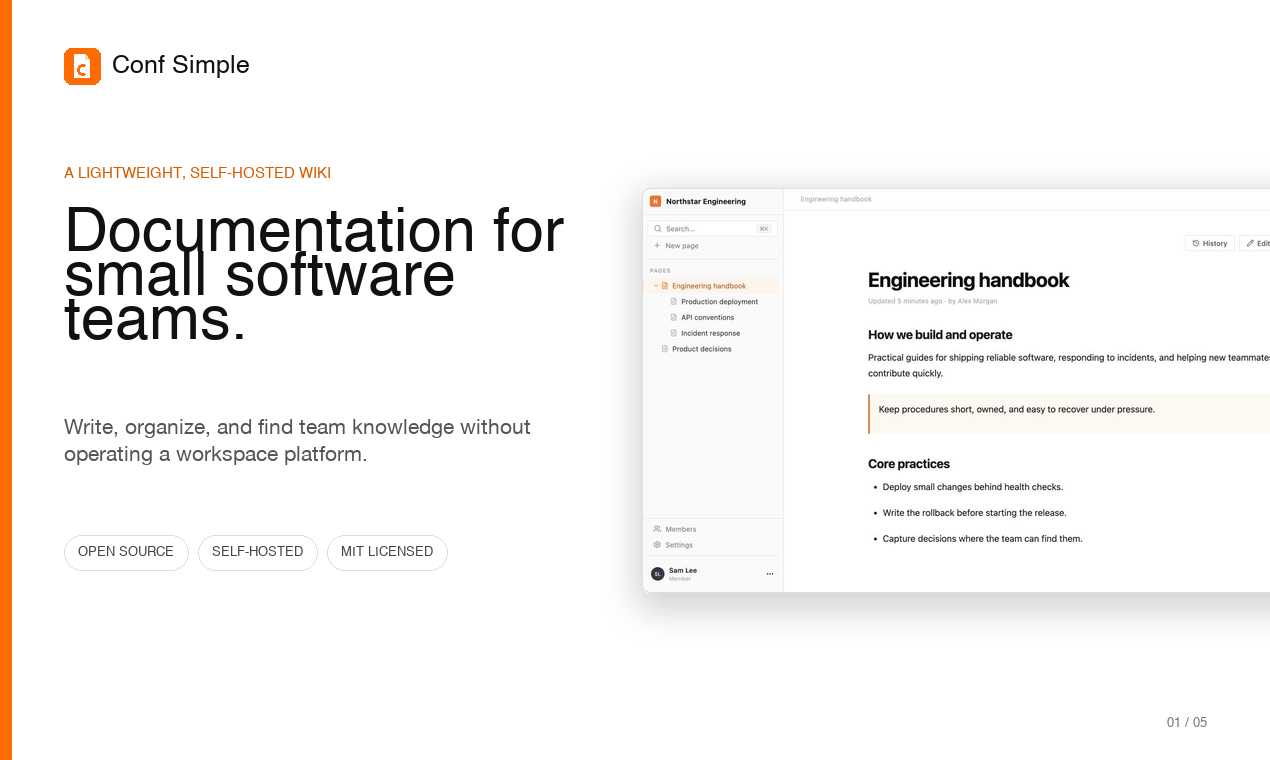
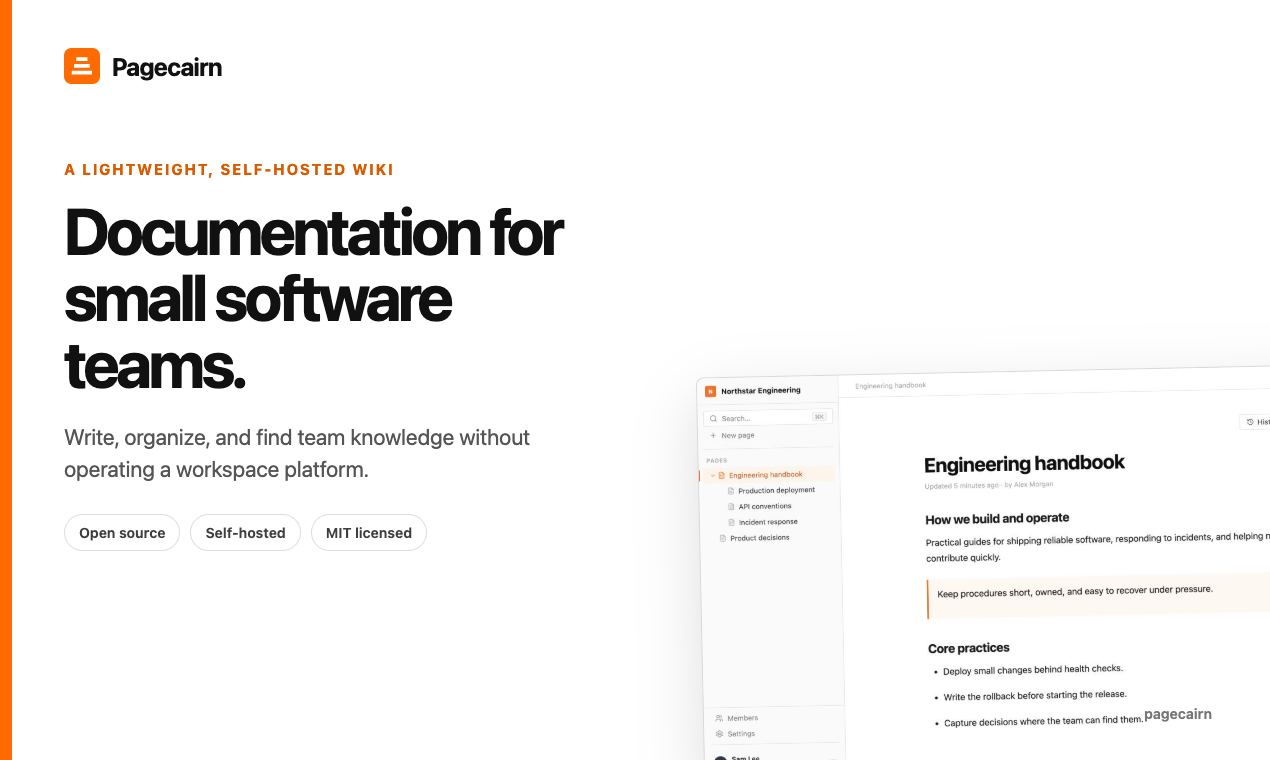
Rename product to Pagecairn

diff --git a/docs/index.html b/docs/index.html
@@ -4,17 +4,17 @@
     <meta charset="utf-8">
     <meta name="viewport" content="width=device-width, initial-scale=1">
     <meta name="theme-color" content="#ff6b00">
-    <meta name="description" content="Conf Simple is a lightweight, self-hosted wiki for small software teams to write, organize, and find documentation.">
-    <meta property="og:title" content="Conf Simple — a lightweight, self-hosted wiki">
+    <meta name="description" content="Pagecairn is a lightweight, self-hosted wiki for small software teams to write, organize, and find documentation.">
+    <meta property="og:title" content="Pagecairn — a lightweight, self-hosted wiki">
     <meta property="og:description" content="Write, organize, and find your team's documentation while keeping the whole installation on your own server.">
     <meta property="og:type" content="website">
     <meta property="og:url" content="https://bybogdan.github.io/conf-simple/">
     <meta property="og:image" content="https://bybogdan.github.io/conf-simple/assets/launch/social-preview.png">
     <meta name="twitter:card" content="summary_large_image">
-    <meta name="twitter:title" content="Conf Simple — a lightweight, self-hosted wiki">
+    <meta name="twitter:title" content="Pagecairn — a lightweight, self-hosted wiki">
     <meta name="twitter:description" content="Write, organize, and find your team's documentation while keeping the whole installation on your own server.">
     <meta name="twitter:image" content="https://bybogdan.github.io/conf-simple/assets/launch/social-preview.png">
-    <title>Conf Simple — A lightweight, self-hosted wiki</title>
+    <title>Pagecairn — A lightweight, self-hosted wiki</title>
     <link rel="canonical" href="https://bybogdan.github.io/conf-simple/">
     <link rel="icon" href="assets/landing/favicon.svg" type="image/svg+xml">
     <link rel="stylesheet" href="assets/landing/site.css">
@@ -24,14 +24,9 @@
 
     <header class="site-header">
       <div class="container header-inner">
-        <a class="brand" href="#top" aria-label="Conf Simple home">
-          <svg class="brand-mark" viewBox="0 0 24 24" role="img" aria-label="Conf Simple logo">
-            <rect width="24" height="24" rx="5" fill="#ff6b00"/>
-            <path d="M6.75 4.5h7.4l3.1 3.1v11.9H6.75z" fill="#fff"/>
-            <path d="M14.15 4.5v3.1h3.1" fill="#ffd2b3"/>
-            <path d="M14.7 11.05a4.05 4.05 0 1 0 0 5.9" fill="none" stroke="#ff6b00" stroke-width="1.75" stroke-linecap="round"/>
-          </svg>
-          <span>Conf Simple</span>
+        <a class="brand" href="#top" aria-label="Pagecairn home">
+          <img class="brand-mark" src="assets/landing/favicon.svg" alt="">
+          <span>Pagecairn</span>
         </a>
         <nav aria-label="Primary navigation">
           <a class="nav-link" href="https://github.com/bybogdan/conf-simple">View on GitHub</a>
@@ -53,7 +48,7 @@
         </div>
         <div class="container">
           <figure class="hero-product">
-            <img src="assets/screenshots/hero-workspace.jpg" width="1280" height="720" alt="Conf Simple showing a production deployment runbook inside a nested engineering handbook" fetchpriority="high">
+            <img src="assets/screenshots/hero-workspace.jpg" width="1280" height="720" alt="Pagecairn showing a production deployment runbook inside a nested engineering handbook" fetchpriority="high">
           </figure>
         </div>
       </section>
@@ -98,7 +93,7 @@
           <div class="state-grid">
             <figure>
               <div class="screenshot-frame">
-                <img src="assets/screenshots/search.jpg" width="1280" height="720" loading="lazy" alt="Conf Simple search results for deployment documentation">
+                <img src="assets/screenshots/search.jpg" width="1280" height="720" loading="lazy" alt="Pagecairn search results for deployment documentation">
               </div>
               <figcaption>
                 <strong>Find the answer from anywhere</strong>
@@ -107,7 +102,7 @@
             </figure>
             <figure>
               <div class="screenshot-frame">
-                <img src="assets/screenshots/history.jpg" width="1280" height="720" loading="lazy" alt="Conf Simple revision history showing saved versions of a page">
+                <img src="assets/screenshots/history.jpg" width="1280" height="720" loading="lazy" alt="Pagecairn revision history showing saved versions of a page">
               </div>
               <figcaption>
                 <strong>Review and restore saved revisions</strong>
@@ -123,7 +118,7 @@
           <div>
             <p class="eyebrow">Boring infrastructure, by design</p>
             <h2 id="self-host-title">One container. One persistent volume.</h2>
-            <p>Conf Simple runs with Node.js, SQLite, and local file storage. No Redis, PostgreSQL, object storage, or email service is required.</p>
+            <p>Pagecairn runs with Node.js, SQLite, and local file storage. No Redis, PostgreSQL, object storage, or email service is required.</p>
           </div>
           <div class="install-panel">
             <div class="terminal-label" aria-hidden="true">
@@ -139,14 +134,9 @@
     <footer class="site-footer">
       <div class="container footer-inner">
         <div>
-          <a class="brand" href="#top" aria-label="Conf Simple home">
-            <svg class="brand-mark" viewBox="0 0 24 24" aria-hidden="true">
-              <rect width="24" height="24" rx="5" fill="#ff6b00"/>
-              <path d="M6.75 4.5h7.4l3.1 3.1v11.9H6.75z" fill="#fff"/>
-              <path d="M14.15 4.5v3.1h3.1" fill="#ffd2b3"/>
-              <path d="M14.7 11.05a4.05 4.05 0 1 0 0 5.9" fill="none" stroke="#ff6b00" stroke-width="1.75" stroke-linecap="round"/>
-            </svg>
-            <span>Conf Simple</span>
+          <a class="brand" href="#top" aria-label="Pagecairn home">
+            <img class="brand-mark" src="assets/landing/favicon.svg" alt="">
+            <span>Pagecairn</span>
           </a>
           <p>A lightweight, self-hosted wiki for small software teams.</p>
         </div>

diff --git a/docs/assets/launch/assets.html b/docs/assets/launch/assets.html
@@ -3,14 +3,14 @@
   <head>
     <meta charset="UTF-8" />
     <meta name="viewport" content="width=device-width, initial-scale=1.0" />
-    <title>Conf Simple launch assets</title>
+    <title>Pagecairn launch assets</title>
     <link rel="stylesheet" href="assets.css" />
   </head>
   <body>
     <section class="asset asset--social" id="social-preview">
       <div class="orange-bar"></div>
       <div class="social-copy">
-        <div class="brand"><img src="../../../public/favicon.svg" alt="" />Conf Simple</div>
+        <div class="brand"><img src="../../../public/favicon.svg" alt="" />Pagecairn</div>
         <h1>Open it. Write documentation. Find it later.</h1>
         <p class="lead">A lightweight, self-hosted wiki for small software teams.</p>
       </div>
@@ -20,7 +20,7 @@
 
     <section class="asset" id="gallery-01-overview">
       <div class="orange-bar"></div>
-      <div class="gallery-header brand"><img src="../../../public/favicon.svg" alt="" />Conf Simple</div>
+      <div class="gallery-header brand"><img src="../../../public/favicon.svg" alt="" />Pagecairn</div>
       <div class="g1-copy">
         <p class="eyebrow">A lightweight, self-hosted wiki</p>
         <h1>Documentation for small software teams.</h1>
@@ -28,12 +28,12 @@
         <div class="chips"><span class="chip">Open source</span><span class="chip">Self-hosted</span><span class="chip">MIT licensed</span></div>
       </div>
       <img class="shot g1-shot" src="../screenshots/hero-workspace.jpg" alt="" />
-      <div class="gallery-footer">conf-simple</div>
+      <div class="gallery-footer">pagecairn</div>
     </section>
 
     <section class="asset" id="gallery-02-editor">
       <div class="orange-bar"></div>
-      <div class="gallery-header brand"><img src="../../../public/favicon.svg" alt="" />Conf Simple</div>
+      <div class="gallery-header brand"><img src="../../../public/favicon.svg" alt="" />Pagecairn</div>
       <div class="feature-copy">
         <p class="eyebrow">Write comfortably</p>
         <h1>Technical documentation without a page builder.</h1>
@@ -46,7 +46,7 @@
     <section class="asset" id="gallery-03-search">
       <div class="split">
         <div class="split-copy">
-          <div class="brand"><img src="../../../public/favicon.svg" alt="" />Conf Simple</div>
+          <div class="brand"><img src="../../../public/favicon.svg" alt="" />Pagecairn</div>
           <p class="eyebrow" style="margin-top: 72px">Organize and find</p>
           <h1>Nested pages. Full-text search.</h1>
           <p class="lead">Keep the information model small, then search page titles and content from anywhere.</p>
@@ -58,7 +58,7 @@
 
     <section class="asset" id="gallery-04-history">
       <div class="orange-bar"></div>
-      <div class="gallery-header brand"><img src="../../../public/favicon.svg" alt="" />Conf Simple</div>
+      <div class="gallery-header brand"><img src="../../../public/favicon.svg" alt="" />Pagecairn</div>
       <div class="history-copy">
         <p class="eyebrow">Page history</p>
         <h1>Review and restore saved revisions.</h1>
@@ -71,7 +71,7 @@
 
     <section class="asset host" id="gallery-05-self-host">
       <div class="orange-bar"></div>
-      <div class="gallery-header brand"><img src="../../../public/favicon.svg" alt="" />Conf Simple</div>
+      <div class="gallery-header brand"><img src="../../../public/favicon.svg" alt="" />Pagecairn</div>
       <div class="host-copy">
         <p class="eyebrow">Simple self-hosting</p>
         <h1>One container. One persistent volume.</h1>

diff --git a/index.html b/index.html
@@ -5,16 +5,16 @@
     <meta name="viewport" content="width=device-width, initial-scale=1.0" />
     <meta name="theme-color" content="#ff6b00" />
     <link rel="icon" href="/favicon.svg" type="image/svg+xml" />
-    <meta name="application-name" content="Conf Simple" />
-    <meta name="description" content="Conf Simple is a lightweight, self-hosted wiki for small software teams to write, organize, and find documentation." />
+    <meta name="application-name" content="Pagecairn" />
+    <meta name="description" content="Pagecairn is a lightweight, self-hosted wiki for small software teams to write, organize, and find documentation." />
     <meta property="og:type" content="website" />
-    <meta property="og:site_name" content="Conf Simple" />
-    <meta property="og:title" content="Conf Simple — A lightweight, self-hosted wiki" />
+    <meta property="og:site_name" content="Pagecairn" />
+    <meta property="og:title" content="Pagecairn — A lightweight, self-hosted wiki" />
     <meta property="og:description" content="A lightweight, self-hosted wiki for small software teams to write, organize, and find documentation." />
     <meta name="twitter:card" content="summary" />
-    <meta name="twitter:title" content="Conf Simple — A lightweight, self-hosted wiki" />
+    <meta name="twitter:title" content="Pagecairn — A lightweight, self-hosted wiki" />
     <meta name="twitter:description" content="A lightweight, self-hosted wiki for small software teams to write, organize, and find documentation." />
-    <title>Conf Simple</title>
+    <title>Pagecairn</title>
   </head>
   <body>
     <div id="root"></div>

diff --git a/src/components/WorkspaceShell.tsx b/src/components/WorkspaceShell.tsx
@@ -3,7 +3,6 @@ import { ChevronRight, FilePlus2, FileText, LogOut, MoreHorizontal, Move, Plus, 
 import { api } from "../api";
 import { pagePath, sortedChildren } from "../pageTree";
 import type { Page, User, Workspace } from "../types";
-import { BrandMark } from "./BrandMark";
 import { HistoryPanel } from "./HistoryPanel";
 import { MembersPage } from "./MembersPage";
 import { MovePageDialog } from "./MovePageDialog";
@@ -66,7 +65,7 @@ export function WorkspaceShell({ user, workspace, pages, onPagesChange, onWorksp
 
   return <div className="workspace-shell" onClick={() => { setPageMenuId(null); setAccountOpen(false); }}>
     <aside className="sidebar">
-      <div className="workspace-name"><BrandMark className="brand-mark" /><span>{workspace.name}</span></div>
+      <div className="workspace-name"><span className="workspace-mark" aria-hidden="true">{workspace.name.trim().charAt(0).toUpperCase() || "W"}</span><span>{workspace.name}</span></div>
       <div className="sidebar-actions">
         <button onClick={() => setSearchOpen(true)}><Search size={14} /><span>Search…</span><kbd>⌘K</kbd></button>
         <button onClick={() => { setNewParentId(null); setMode("new"); }}><Plus size={14} /><span>New page</span></button>

diff --git a/src/components/BrandMark.tsx b/src/components/BrandMark.tsx
@@ -5,8 +5,8 @@ type BrandMarkProps = Omit<SVGProps<SVGSVGElement>, "children"> & {
 };
 
 /**
- * The canonical Conf Simple mark: a folded document with a small C-shaped
- * counter cut into the page. Keep this geometry in sync with public/favicon.svg.
+ * The canonical Pagecairn mark: three deliberately placed page markers.
+ * Keep this geometry in sync with public/favicon.svg.
  */
 export function BrandMark({ label, ...props }: BrandMarkProps) {
   return (
@@ -20,9 +20,7 @@ export function BrandMark({ label, ...props }: BrandMarkProps) {
       {...props}
     >
       <rect width="24" height="24" rx="5" fill="#ff6b00" />
-      <path d="M6.75 4.5h7.4l3.1 3.1v11.9H6.75z" fill="#fff" />
-      <path d="M14.15 4.5v3.1h3.1" fill="#ffd2b3" />
-      <path d="M14.7 11.05a4.05 4.05 0 1 0 0 5.9" fill="none" stroke="#ff6b00" strokeWidth="1.75" strokeLinecap="round" />
+      <path d="M8.25 6.25h7.5v2.5h-7.5zM6.75 10.75h10.5v2.5H6.75zM5.25 15.25h13.5v2.5H5.25z" fill="#fff" />
     </svg>
   );
 }
@@ -31,7 +29,7 @@ export function BrandLockup() {
   return (
     <div className="brand-lockup">
       <BrandMark className="brand-mark" />
-      <span>Conf Simple</span>
+      <span>Pagecairn</span>
     </div>
   );
 }

diff --git a/src/styles.css b/src/styles.css
@@ -39,7 +39,7 @@ button:focus-visible, input:focus-visible, select:focus-visible, [contenteditabl
 .workspace-shell { width: 100%; height: 100%; display: grid; grid-template-columns: 252px minmax(0, 1fr); overflow: hidden; }
 .sidebar { position: relative; display: flex; flex-direction: column; min-height: 0; background: var(--sidebar); border-right: 1px solid var(--border); }
 .workspace-name { height: 48px; display: flex; align-items: center; gap: 9px; padding: 0 14px; border-bottom: 1px solid var(--border); font-size: 13px; font-weight: 650; }
-.workspace-name .brand-mark { width: 20px; height: 20px; }
+.workspace-mark { display: grid; width: 20px; height: 20px; flex: none; place-items: center; border-radius: 3px; background: var(--accent); color: #fff; font-size: 10px; font-weight: 750; }
 .sidebar-actions { padding: 10px 10px 4px; display: grid; gap: 2px; }
 .sidebar-actions button, .sidebar-footer > button { height: 28px; display: flex; align-items: center; gap: 8px; padding: 0 10px; border: 0; border-radius: 3px; color: var(--muted); background: transparent; font-size: 12.5px; text-align: left; }
 .sidebar-actions button:first-child { border: 1px solid var(--border); background: #fff; }

diff --git a/src/components/BrandMark.test.tsx b/src/components/BrandMark.test.tsx
@@ -2,7 +2,7 @@ import { renderToStaticMarkup } from "react-dom/server";
 import { describe, expect, it } from "vitest";
 import { BrandLockup, BrandMark } from "./BrandMark";
 
-describe("Conf Simple identity", () => {
+describe("Pagecairn identity", () => {
   it("renders the canonical mark as decorative by default", () => {
     const markup = renderToStaticMarkup(<BrandMark className="brand-mark" />);
     expect(markup).toContain('viewBox="0 0 24 24"');
@@ -11,13 +11,13 @@ describe("Conf Simple identity", () => {
   });
 
   it("can expose an accessible label when the mark stands alone", () => {
-    const markup = renderToStaticMarkup(<BrandMark label="Conf Simple" />);
+    const markup = renderToStaticMarkup(<BrandMark label="Pagecairn" />);
     expect(markup).toContain('role="img"');
-    expect(markup).toContain('aria-label="Conf Simple"');
+    expect(markup).toContain('aria-label="Pagecairn"');
     expect(markup).not.toContain("aria-hidden");
   });
 
   it("uses the exact product name in the lockup", () => {
-    expect(renderToStaticMarkup(<BrandLockup />)).toContain("Conf Simple");
+    expect(renderToStaticMarkup(<BrandLockup />)).toContain("Pagecairn");
   });
 });

diff --git a/src/App.tsx b/src/App.tsx
@@ -27,7 +27,7 @@ export function App() {
     history.replaceState(null, "", "/"); setReady(next); setBootstrap({ needsSetup: false, requiresAuth: false });
   }} />;
   if (error) return <FatalError message={error} />;
-  if (!bootstrap) return <div className="loading-screen" role="status" aria-label="Loading Conf Simple"><BrandMark className="brand-mark" /></div>;
+  if (!bootstrap) return <div className="loading-screen" role="status" aria-label="Loading Pagecairn"><BrandMark className="brand-mark" /></div>;
   if (!ready) {
     return (
       <AuthScreen
@@ -67,5 +67,5 @@ export function invitationToken(pathname: string) {
 }
 
 function FatalError({ message }: { message: string }) {
-  return <main className="fatal"><h1>Couldn’t open Conf Simple</h1><p>{message}</p><button onClick={() => location.reload()}>Try again</button></main>;
+  return <main className="fatal"><h1>Couldn’t open Pagecairn</h1><p>{message}</p><button onClick={() => location.reload()}>Try again</button></main>;
 }

diff --git a/docs/assets/launch/assets.css b/docs/assets/launch/assets.css
@@ -167,7 +167,7 @@ h1 {
   z-index: 2;
   top: 160px;
   left: 64px;
-  width: 590px;
+  width: 530px;
 }
 
 .g1-copy h1 {
@@ -176,9 +176,9 @@ h1 {
 
 .g1-shot {
   position: absolute;
-  right: -116px;
+  right: -150px;
   bottom: -16px;
-  width: 760px;
+  width: 720px;
   transform: rotate(-1.2deg);
 }
 
@@ -201,9 +201,9 @@ h1 {
 
 .feature-shot {
   position: absolute;
-  left: 64px;
-  bottom: -118px;
-  width: 1142px;
+  left: 135px;
+  bottom: -192px;
+  width: 1000px;
 }
 
 .split {
@@ -244,7 +244,7 @@ h1 {
   position: absolute;
   top: 120px;
   left: 64px;
-  width: 560px;
+  width: 530px;
 }
 
 .history-copy h1 {
@@ -253,7 +253,7 @@ h1 {
 
 .history-shot {
   position: absolute;
-  right: -40px;
+  right: -120px;
   bottom: 62px;
   width: 760px;
 }
@@ -308,6 +308,12 @@ h1 {
   right: -144px;
   bottom: 50px;
   width: 720px;
+}
+
+.host .gallery-footer {
+  right: auto;
+  left: 64px;
+  bottom: 28px;
 }
 
 .storage {

diff --git a/src/components/InviteScreen.tsx b/src/components/InviteScreen.tsx
@@ -20,7 +20,7 @@ export function InviteScreen({ token, onReady, onCancel }: { token: string; onRe
     }).catch((caught: Error) => setError(caught.message)).finally(() => setLoading(false));
   }, [token]);
 
-  if (loading) return <div className="loading-screen" role="status" aria-label="Loading Conf Simple invitation"><BrandMark className="brand-mark" /></div>;
+  if (loading) return <div className="loading-screen" role="status" aria-label="Loading Pagecairn invitation"><BrandMark className="brand-mark" /></div>;
   if (!invitation) return <main className="fatal"><h1>Invitation unavailable</h1><p>{error}</p><button className="secondary" onClick={onCancel}>Go to sign in</button></main>;
 
   return <main className="auth-screen">

diff --git a/server/app.test.ts b/server/app.test.ts
@@ -627,7 +627,7 @@ describe("production SPA path handling", () => {
     const { database, dataDirectory } = testApp();
     const clientDirectory = path.join(dataDirectory, "client");
     fs.mkdirSync(clientDirectory);
-    fs.writeFileSync(path.join(clientDirectory, "index.html"), "<!doctype html><title>Conf Simple test client</title><div id=\"root\">client shell</div>");
+    fs.writeFileSync(path.join(clientDirectory, "index.html"), "<!doctype html><title>Pagecairn test client</title><div id=\"root\">client shell</div>");
     const app = createApp(database, { clientDirectory });
 
     const invite = await request(app).get("/invite/%E0%A4%A");

diff --git a/server/index.ts b/server/index.ts
@@ -24,7 +24,7 @@ const vite = isProduction
 if (vite) app.use(vite.middlewares);
 
 const server = app.listen(port, () => {
-  console.log(`Conf Simple listening on http://0.0.0.0:${port}`);
+  console.log(`Pagecairn listening on http://0.0.0.0:${port}`);
   console.log(`Persistent data: ${dataDirectory}`);
 });
 
